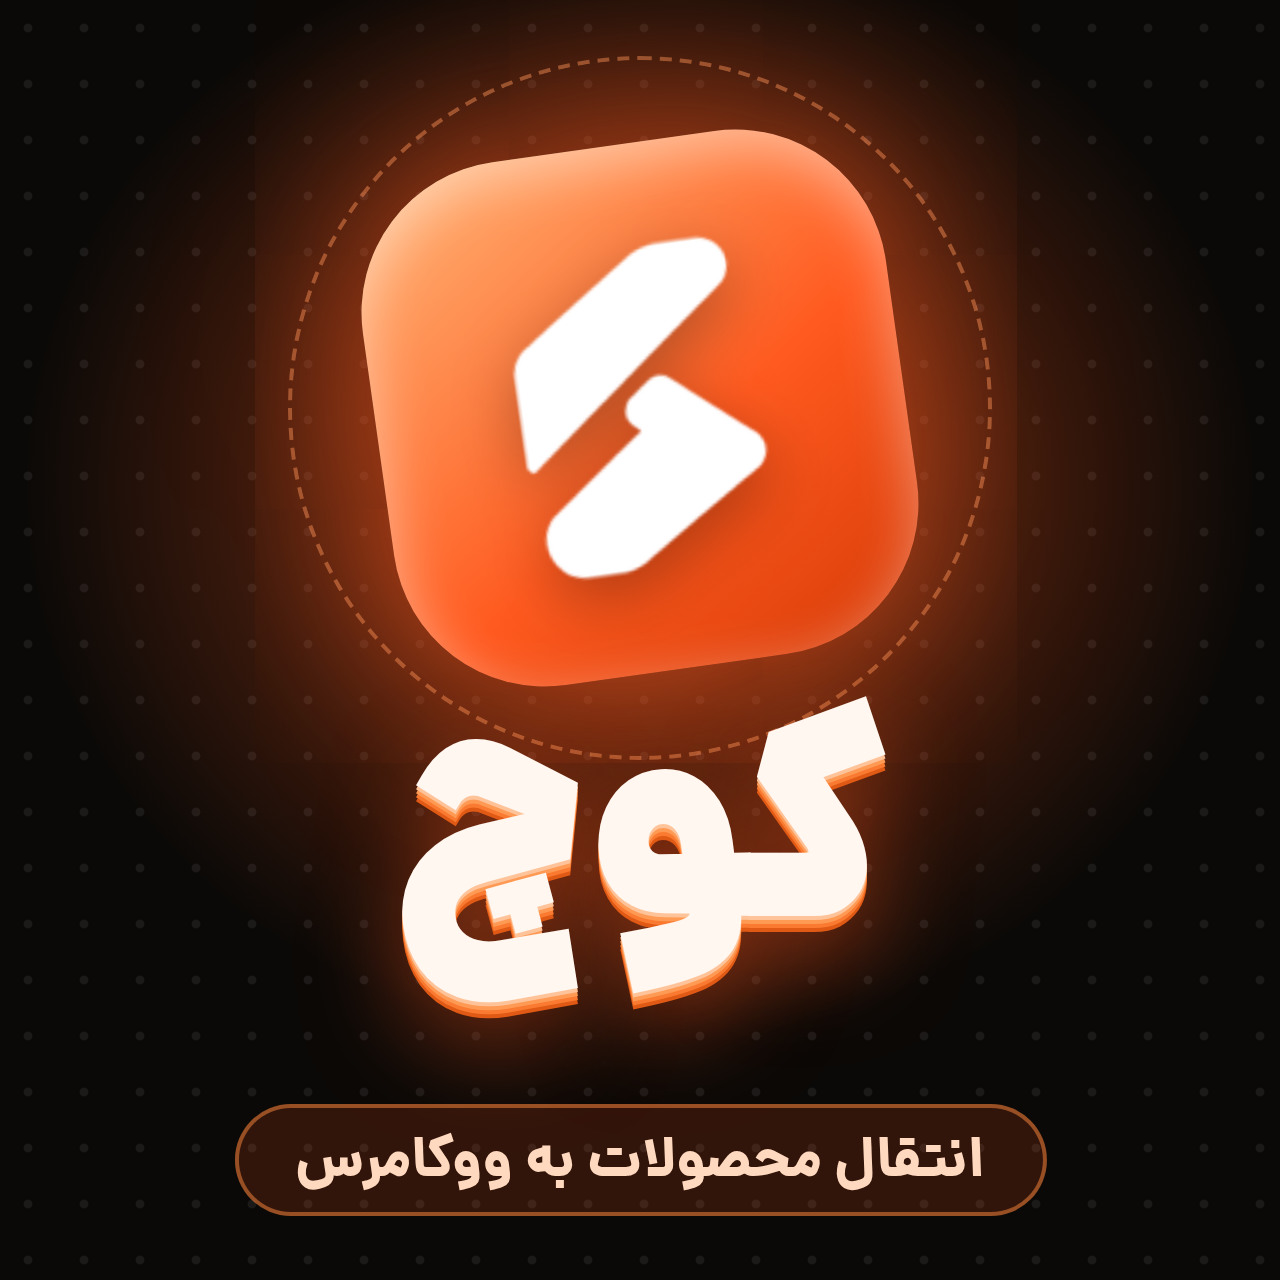
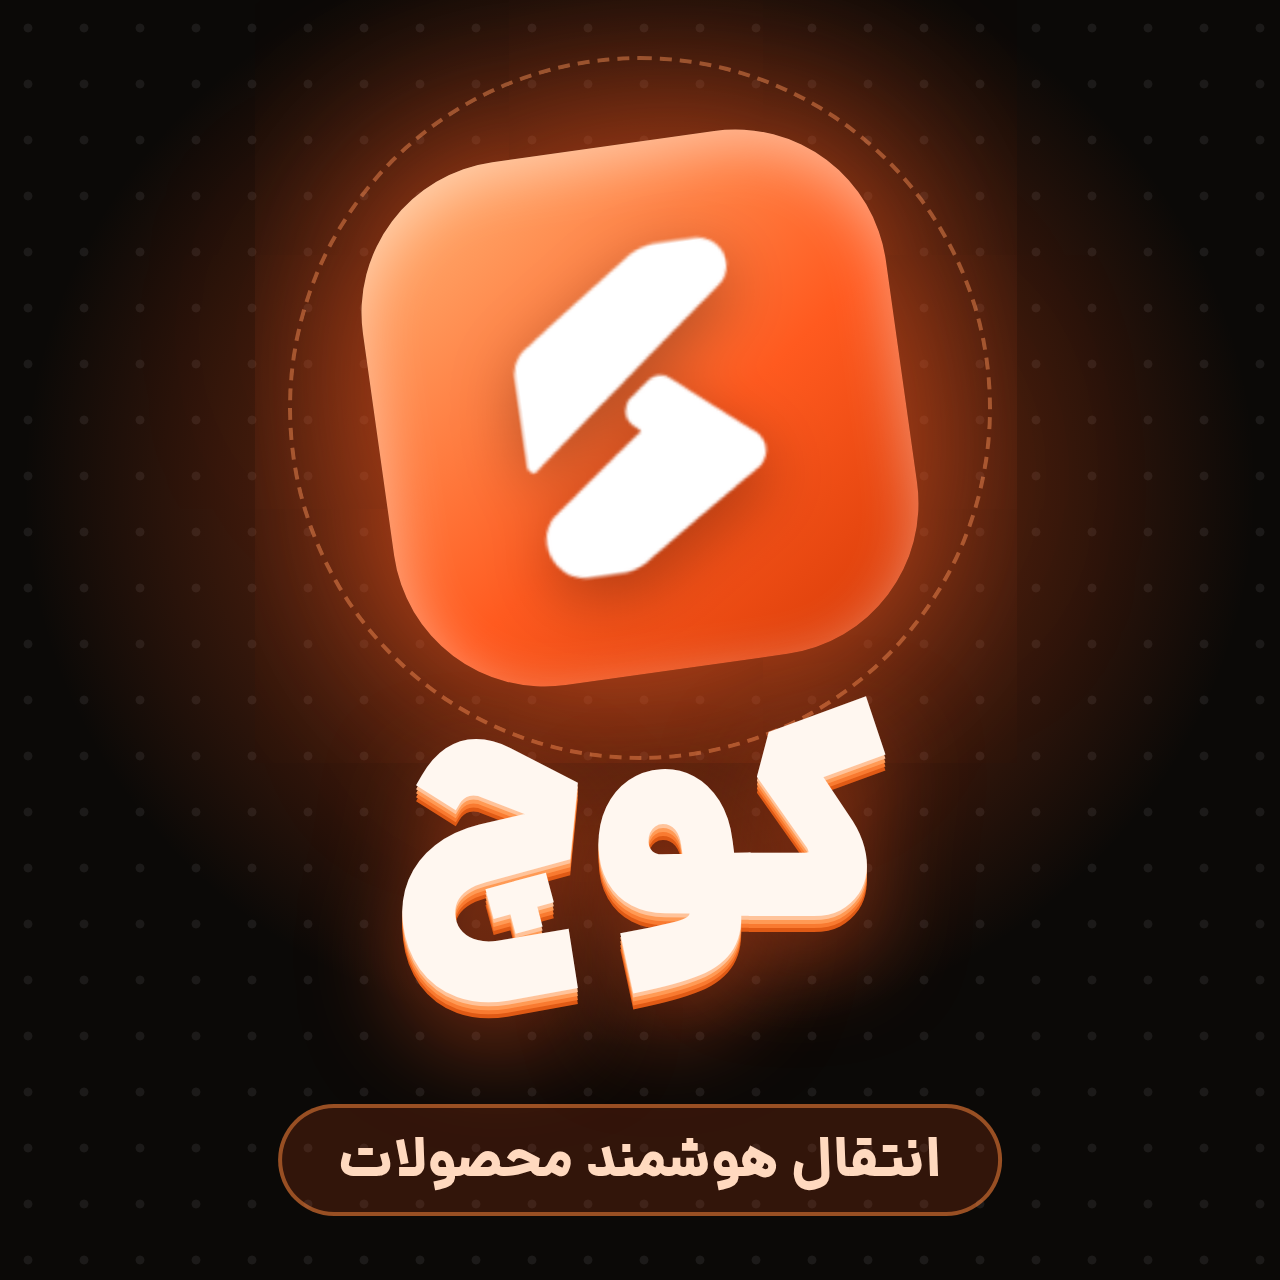
Kooch square thumbnail: change tagline
Claude-Session: https://claude.ai/code/session_01HjGiyHhZHcoV6ExRpRRqKD

Changed region(s): [[0.1875, 0.8438, 0.8125, 0.9688]]

diff --git a/kooch-showcase/square.html b/kooch-showcase/square.html
@@ -12,5 +12,5 @@ body{background:#000;font-family:Dana,Tahoma,sans-serif}
 h1{position:absolute;top:176px;left:0;right:0;font-size:64px;font-weight:950;line-height:1.1;color:#fff7f0;text-shadow:0 1px 0 #ffc39a,0 2px 0 #ff9a55,0 3px 0 #f97a30,0 4px 0 #e05a15,0 10px 24px rgba(255,90,31,.5)}
 .sub{position:absolute;bottom:16px;left:50%;transform:translateX(-50%);white-space:nowrap;font-size:14px;font-weight:800;color:#ffd9bf;background:rgba(255,90,31,.16);border:1px solid rgba(255,138,61,.5);padding:3px 14px;border-radius:99px}
 </style></head><body>
-<div class="s"><div class="ring"></div><div class="core"><img src="kooch-icon.png" alt=""></div><h1>کوچ</h1><div class="sub">انتقال محصولات به ووکامرس</div></div>
+<div class="s"><div class="ring"></div><div class="core"><img src="kooch-icon.png" alt=""></div><h1>کوچ</h1><div class="sub">انتقال هوشمند محصولات</div></div>
 </body></html>
